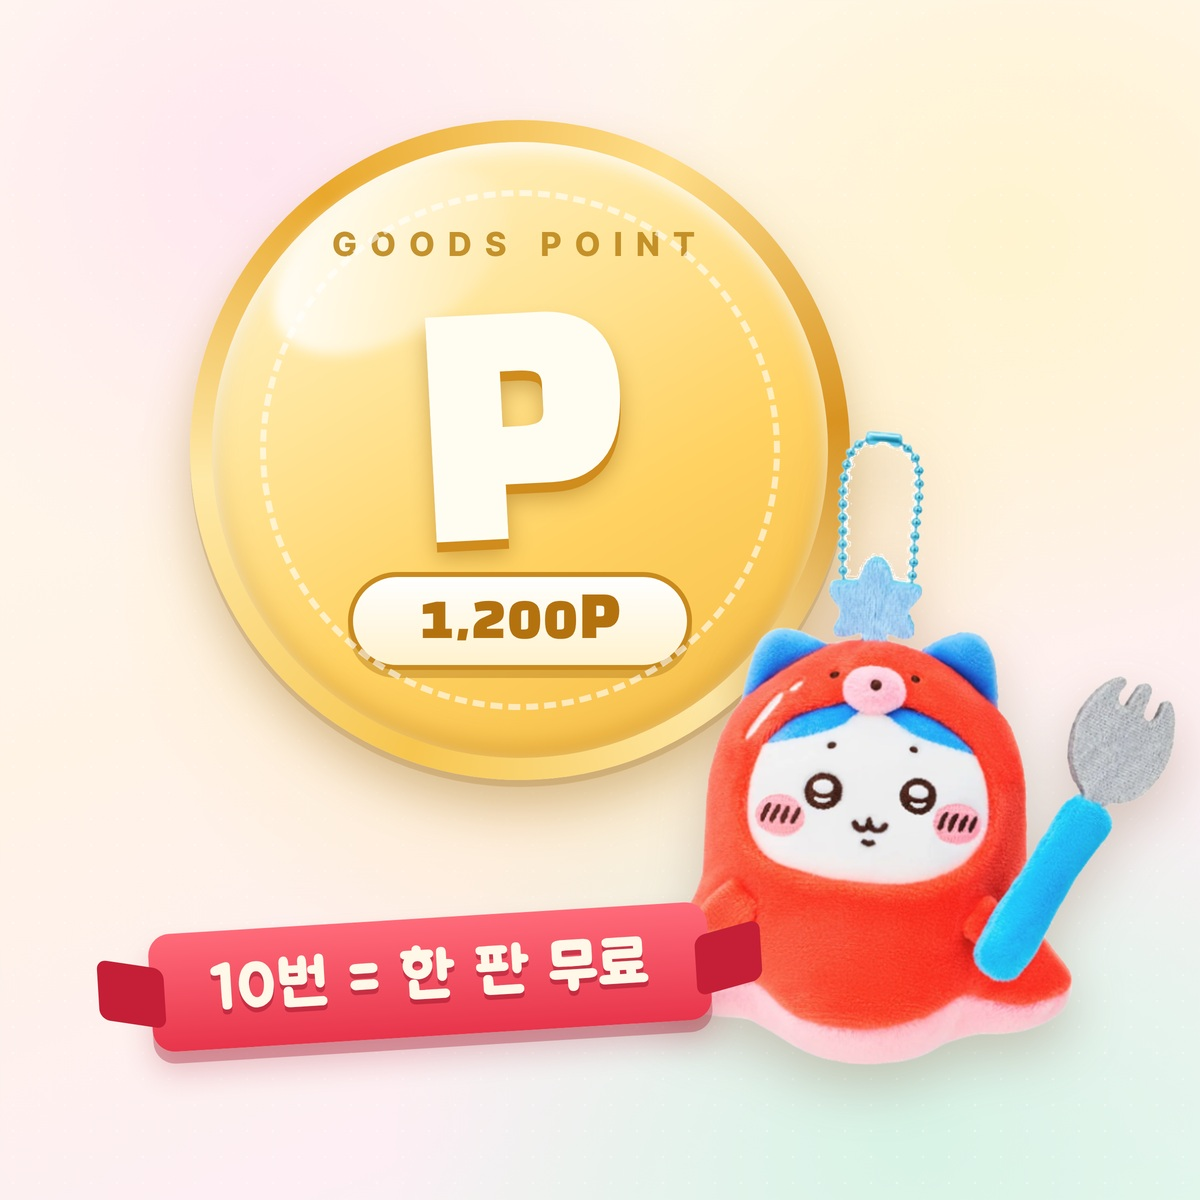
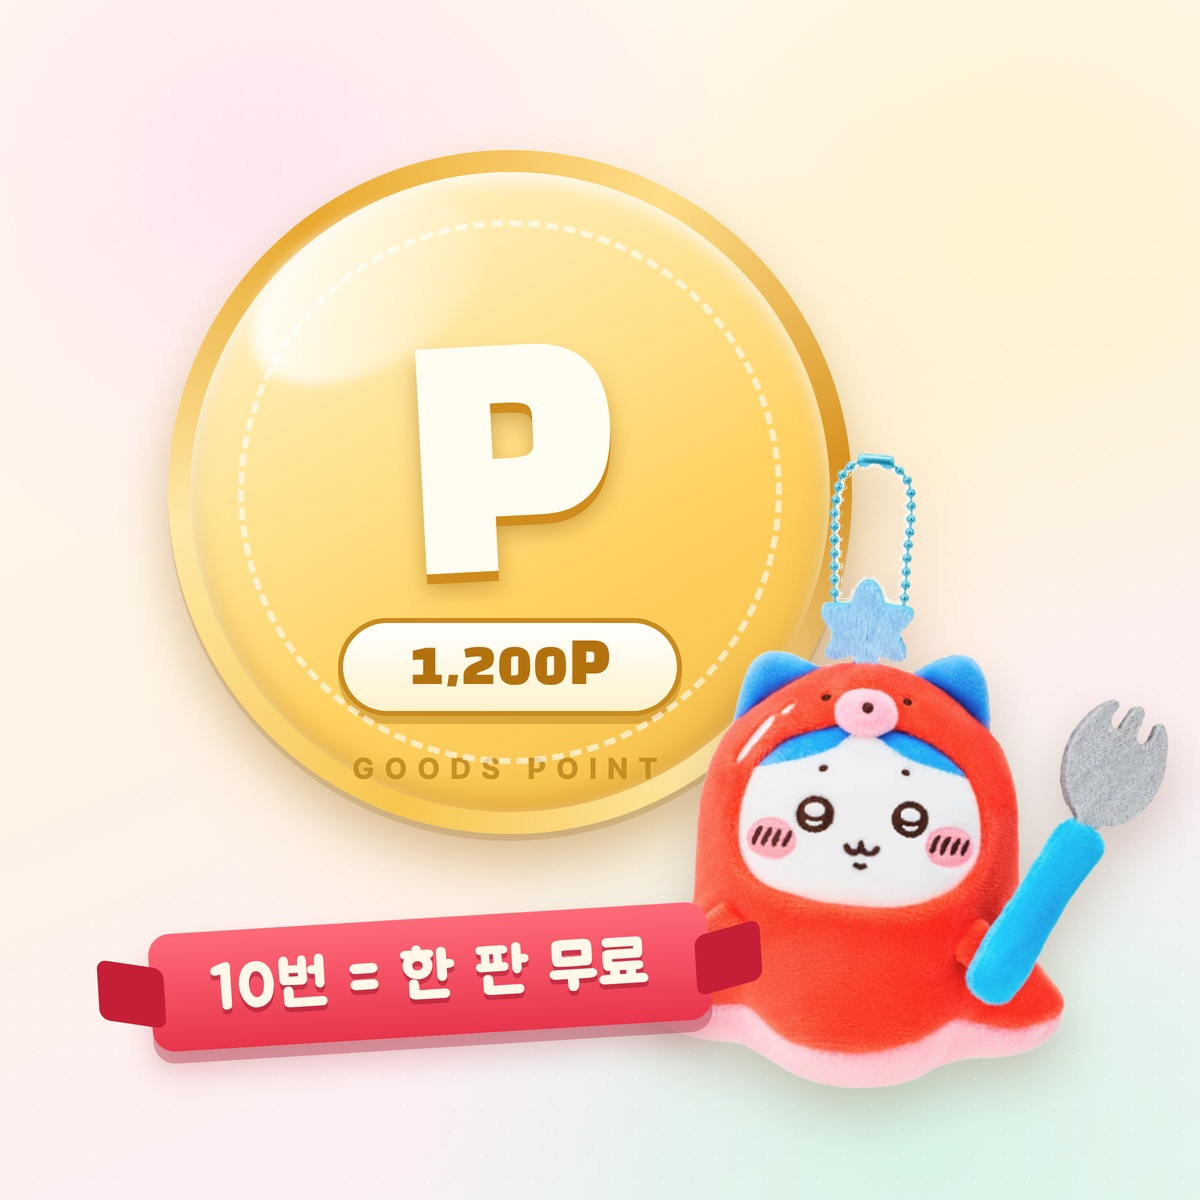
v4.1.6: P상 카드 이미지 배지 안전영역 조정 · COVER_VER 4.1.6

Changed region(s): [[0.1233, 0.0925, 0.9867, 0.925]]

diff --git a/assets/app.js b/assets/app.js
@@ -120,7 +120,7 @@
   }
   var h = escapeHtml;
   /* 실물 커버 등 상품 이미지 캐시 갱신용 버전 (커버 교체 시 올린다) */
-  var COVER_VER = '4.1.5';
+  var COVER_VER = '4.1.6';
   /* P상(굿즈 포인트) 카드 기본 이미지 — 판에 P상 이미지가 없으면 이 이미지를 쓴다 */
   var POINT_IMG = 'assets/products/point/p.jpg';
   function coverSrc(url) {

diff --git a/index.html b/index.html
@@ -789,6 +789,6 @@
 </div>
 
 <script src="assets/config.js?v=3.0.2"></script>
-<script src="assets/app.js?v=4.1.5" defer></script>
+<script src="assets/app.js?v=4.1.6" defer></script>
 </body>
 </html>
